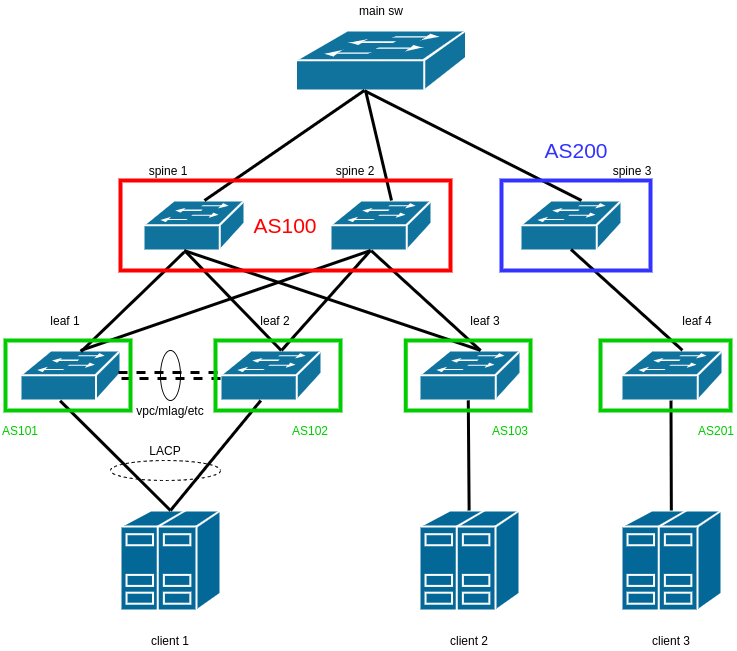
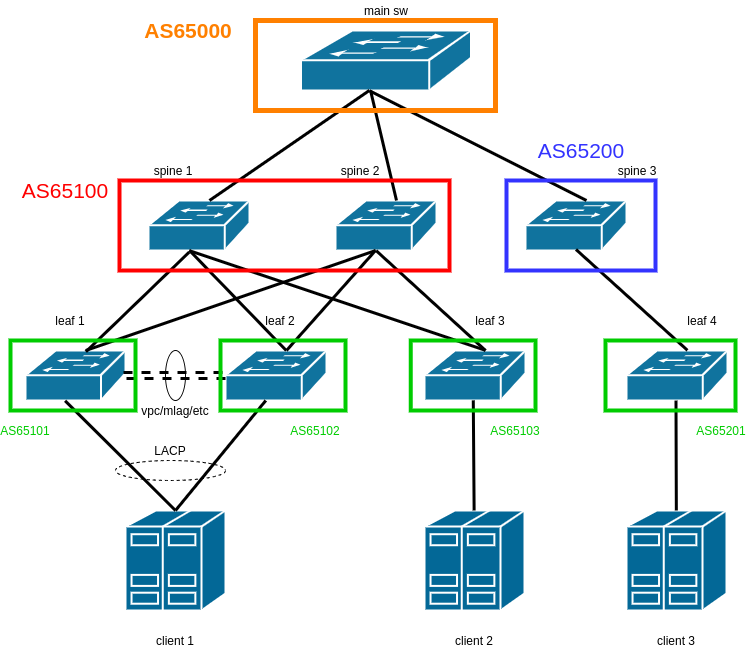
finally BGP

diff --git a/ex4. BGP/README.md b/ex4. BGP/README.md
@@ -14,4 +14,98 @@
 ![Архитектура сети](https://github.com/Roman2dot0/training-otus/blob/master/ex4.%20BGP/bgp.png)
 
 Разделим сеть на 2 основных сегмента: первый включает в себя spine1, spine2 и все подключенные к ним leaf; второй - spine3 + leaf4.
-Объединяем spine в сегментах в одну AS, на каждый leaf назначаем уникальную AS. mainSw не участвует в BGP топологии и служит для связности между сегментами.
+Объединяем spine в сегментах в одну AS (уникальная на сегмент), на каждый leaf назначаем уникальную AS. mainSw участвует в BGP топологии и служит для имитации связности через Интернет. Для упрощения настройки будут использоваться unnumbered ip внутри сегментов.
+Т.к клиенты находятся за leaf, то анонс сетей будет только сниз и только клиентских. В этом случае будет работать маршрутизация между клиентами, но не между остальными участниками.
+
+
+Для простой проверки маршрутизации запускаем ping с client1 до client2/3
+
+```
+vagrant@client1:mgmt:~$ ping -c 3 10.2.0.100
+vrf-wrapper.sh: switching to vrf "default"; use '--no-vrf-switch' to disable
+PING 10.2.0.100 (10.2.0.100) 56(84) bytes of data.
+64 bytes from 10.2.0.100: icmp_seq=1 ttl=61 time=2.34 ms
+64 bytes from 10.2.0.100: icmp_seq=2 ttl=61 time=2.65 ms
+64 bytes from 10.2.0.100: icmp_seq=3 ttl=61 time=2.81 ms
+
+--- 10.2.0.100 ping statistics ---
+3 packets transmitted, 3 received, 0% packet loss, time 6ms
+rtt min/avg/max/mdev = 2.343/2.600/2.810/0.202 ms
+vagrant@client1:mgmt:~$ ping -c 3 10.3.0.100
+vrf-wrapper.sh: switching to vrf "default"; use '--no-vrf-switch' to disable
+PING 10.3.0.100 (10.3.0.100) 56(84) bytes of data.
+64 bytes from 10.3.0.100: icmp_seq=1 ttl=60 time=3.77 ms
+64 bytes from 10.3.0.100: icmp_seq=2 ttl=60 time=3.70 ms
+64 bytes from 10.3.0.100: icmp_seq=3 ttl=60 time=3.79 ms
+
+--- 10.3.0.100 ping statistics ---
+3 packets transmitted, 3 received, 0% packet loss, time 6ms
+rtt min/avg/max/mdev = 3.696/3.753/3.794/0.041 ms
+```
+
+Пример того, что работает BGP Multipath. Nexthop объедняются в группу и автоматически работает ECMP для таких маршрутов.
+
+leaf3 в сторону сети за leaf1, leaf2
+```
+root@leaf3:mgmt:~# ip route show 10.1.0.0/24
+10.1.0.0/24 nhid 24 proto bgp metric 20
+root@leaf3:mgmt:~#
+root@leaf3:mgmt:~#
+root@leaf3:mgmt:~# ip nexthop show
+id 11 dev lo scope host proto zebra
+id 12 dev eth0 scope host proto zebra
+id 13 dev swp3 scope host proto zebra
+id 14 dev eth0 scope link proto zebra
+id 17 dev swp1 scope link proto zebra
+id 19 via 10.255.1.1 dev eth0 scope link proto zebra
+id 20 blackhole proto zebra
+id 24 group 25/26 proto zebra
+id 25 via fe80::4638:39ff:fe00:104 dev swp1 scope link proto zebra
+id 26 via fe80::4638:39ff:fe00:108 dev swp2 scope link proto zebra
+```
+
+leaf1 в сторону сети за leaf4
+```
+vagrant@leaf1:mgmt:~$ ip route show 10.3.0.0/24
+10.3.0.0/24 nhid 30 proto bgp metric 20
+vagrant@leaf1:mgmt:~$
+vagrant@leaf1:mgmt:~$
+vagrant@leaf1:mgmt:~$ ip nexthop show
+id 9 dev lo scope host proto zebra
+id 10 dev eth0 scope host proto zebra
+id 11 dev eth0 scope link proto zebra
+id 13 dev swp2 scope link proto zebra
+id 15 via 10.255.1.1 dev eth0 scope link proto zebra
+id 16 blackhole proto zebra
+id 26 dev vlan1 scope host proto zebra
+id 30 group 31/32 proto zebra
+id 31 via fe80::4638:39ff:fe00:102 dev swp2 scope link proto zebra
+id 32 via fe80::4638:39ff:fe00:106 dev swp3 scope link proto zebra
+```
+
+Пример BGP таблицы на mainSw
+```
+vagrant@mainSw:mgmt:~$ net show bgp
+show bgp ipv4 unicast
+=====================
+BGP table version is 3, local router ID is 172.16.12.1, vrf id 0
+Default local pref 100, local AS 65000
+Status codes:  s suppressed, d damped, h history, * valid, > best, = multipath,
+               i internal, r RIB-failure, S Stale, R Removed
+Nexthop codes: @NNN nexthop's vrf id, < announce-nh-self
+Origin codes:  i - IGP, e - EGP, ? - incomplete
+
+   Network          Next Hop            Metric LocPrf Weight Path
+*= 10.1.0.0/24      10.0.0.2                               0 65100 65101 i
+*>                  10.0.0.1                               0 65100 65101 i
+*= 10.2.0.0/24      10.0.0.2                               0 65100 65103 i
+*>                  10.0.0.1                               0 65100 65103 i
+*> 10.3.0.0/24      10.0.0.3                               0 65200 65201 i
+
+Displayed  3 routes and 5 total paths
+
+
+show bgp ipv6 unicast
+=====================
+No BGP prefixes displayed, 0 exist
+```
